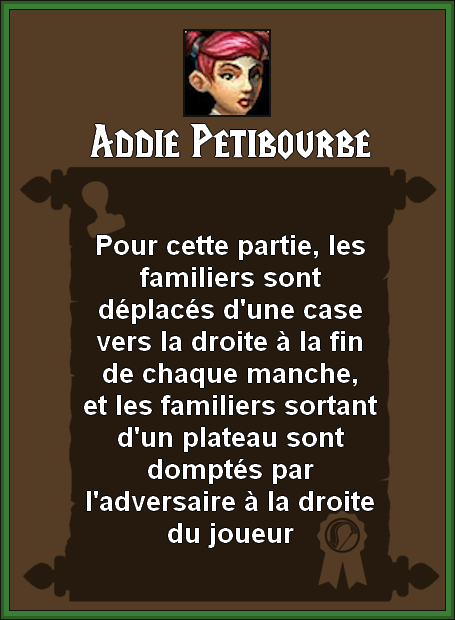
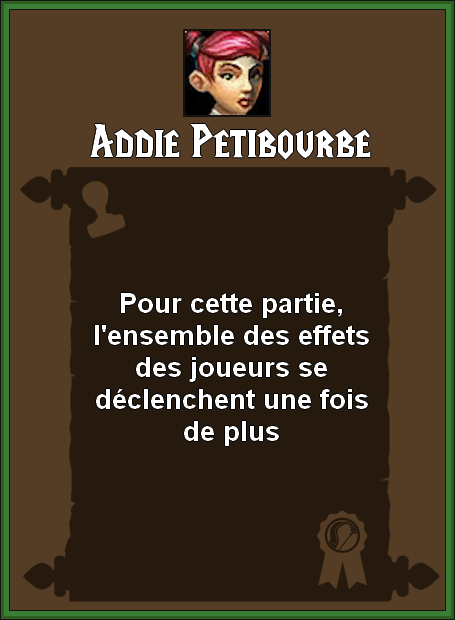
Ajouté nouvelles versions de cartes et d'icones

Changed region(s): [[0.1846, 0.3677, 0.8308, 0.8887]]

diff --git a/catalogue-de-cartes.html b/catalogue-de-cartes.html
@@ -245,7 +245,7 @@
 			data-attack="3" data-life="3" data-expansion="core">
 		<img src="./Images/Cartes/Fondamental/Armes/Ashjre_thul.png" alt="Ashjre'thul" class="catalogue-card"
 			data-attack="3" data-life="3" data-expansion="core">
-		<img src="./Images/Cartes/Dragonflight/Awak_Mani.png" alt="Awak'mani" class="catalogue-card"
+		<img src="./Images/Cartes/Dragonflight/Awak_mani.png" alt="Awak'mani" class="catalogue-card"
 			data-attack="2" data-life="4" data-expansion="dragonflight">
 		<img src="./Images/Cartes/Fondamental/Armes/Choc_des_titans.png" alt="Choc des titans" class="catalogue-card"
 			data-attack="2" data-life="4" data-expansion="core">
@@ -438,8 +438,6 @@
 			class="catalogue-card" data-expansion="champions_du_pavillon">
 		<img src="./Images/Cartes/Champions_du_Pavillon/Belluaire_Hilaire.png" alt="Belluaire Hilaire"
 			class="catalogue-card" data-expansion="champions_du_pavillon">
-		<img src="./Images/Cartes/Champions_du_Pavillon/Boulette.png" alt="Boulette"
-			class="catalogue-card" data-expansion="champions_du_pavillon">
 		<img src="./Images/Cartes/Champions_du_Pavillon/Chassenuit_Syrenne.png" alt="Chassenuit Syrenne"
 			class="catalogue-card" data-expansion="champions_du_pavillon">
 		<img src="./Images/Cartes/Champions_du_Pavillon/Emmarel_Ombregarde.png" alt="Emmarel Ombregarde"
@@ -451,8 +449,6 @@
 		<img src="./Images/Cartes/Champions_du_Pavillon/Hemet_Nesingwary.png" alt="Hemet Nesingwary"
 			class="catalogue-card" data-expansion="champions_du_pavillon">
 		<img src="./Images/Cartes/Champions_du_Pavillon/Loren_Sabot-Tempete.png" alt="Loren Sabot-Tempete"
-			class="catalogue-card" data-expansion="champions_du_pavillon">
-		<img src="./Images/Cartes/Champions_du_Pavillon/Moroes.png" alt="Moroes"
 			class="catalogue-card" data-expansion="champions_du_pavillon">
 		<img src="./Images/Cartes/Champions_du_Pavillon/Rexxar.png" alt="Rexxar"
 			class="catalogue-card" data-expansion="champions_du_pavillon">

diff --git a/champions-du-pavillon.html b/champions-du-pavillon.html
@@ -62,19 +62,17 @@
 			<div class="icons-row">
 				<img src="./Images/Icones/Champions_du_Pavillon/Gnome_F.jpg" alt="Addie Pétibourbe" class="icon-img">
 				<img src="./Images/Icones/Champions_du_Pavillon/Vrykul.jpg" alt="Belluaire Hilaire" class="icon-img">
-				<img src="./Images/Icones/Champions_du_Pavillon/Gnoll.jpg" alt="Boulette" class="icon-img">
 				<img src="./Images/Icones/Champions_du_Pavillon/Sacrenuit_F.jpg" alt="Chassenuit Syrenne" class="icon-img">
 				<div class="icon-wrap">
-					<img src="./Images/Icones/Champions_du_Pavillon/Nuit_F.jpg" alt="Emmarel Ombregarde" class="icon-img" id="emmarel-icon">
+					<img src="./Images/Icones/Champions_du_Pavillon/Emmarel.jpg" alt="Emmarel Ombregarde" class="icon-img" id="emmarel-icon">
 					<div class="card-preview" aria-hidden="true">
 						<img src="./Images/Cartes/Champions_du_Pavillon/Bete_legendaire.png" alt="Bête légendaire" class="card-img">
 					</div>
 				</div>
-				<img src="./Images/Icones/Champions_du_Pavillon/Forestier-sombre.jpg" alt="Forestier-sombre Velonara" class="icon-img">
+				<img src="./Images/Icones/Champions_du_Pavillon/Mort-vivant_F.jpg" alt="Forestier-sombre Velonara" class="icon-img">
 				<img src="./Images/Icones/Champions_du_Pavillon/Sang_M.jpg" alt="Halduron Luisaile" class="icon-img">
 				<img src="./Images/Icones/Champions_du_Pavillon/Nain_M.jpg" alt="Hemet Nesingwary" class="icon-img">
 				<img src="./Images/Icones/Champions_du_Pavillon/Haut-Roc_M.jpg" alt="Loren Sabot-Tempête" class="icon-img">
-				<img src="./Images/Icones/Champions_du_Pavillon/Mort-vivant_M.jpg" alt="Moroes" class="icon-img">
 				<img src="./Images/Icones/Champions_du_Pavillon/Rexxar.jpg" alt="Rexxar" class="icon-img">
 				<img src="./Images/Icones/Champions_du_Pavillon/Nuit_F.jpg" alt="Shandris Pennelune" class="icon-img">
 				<img src="./Images/Icones/Champions_du_Pavillon/Worgen_M.jpg" alt="Veneur Blake" class="icon-img">

diff --git a/CSS/extensions.css b/CSS/extensions.css
@@ -241,7 +241,7 @@ button.button-download {
 
 .icons-row {
     display: grid;
-    grid-template-columns: repeat(7, 1fr);
+    grid-template-columns: repeat(6, 1fr);
     gap: 10px;
     margin: 8px 0;
     align-items: center;
